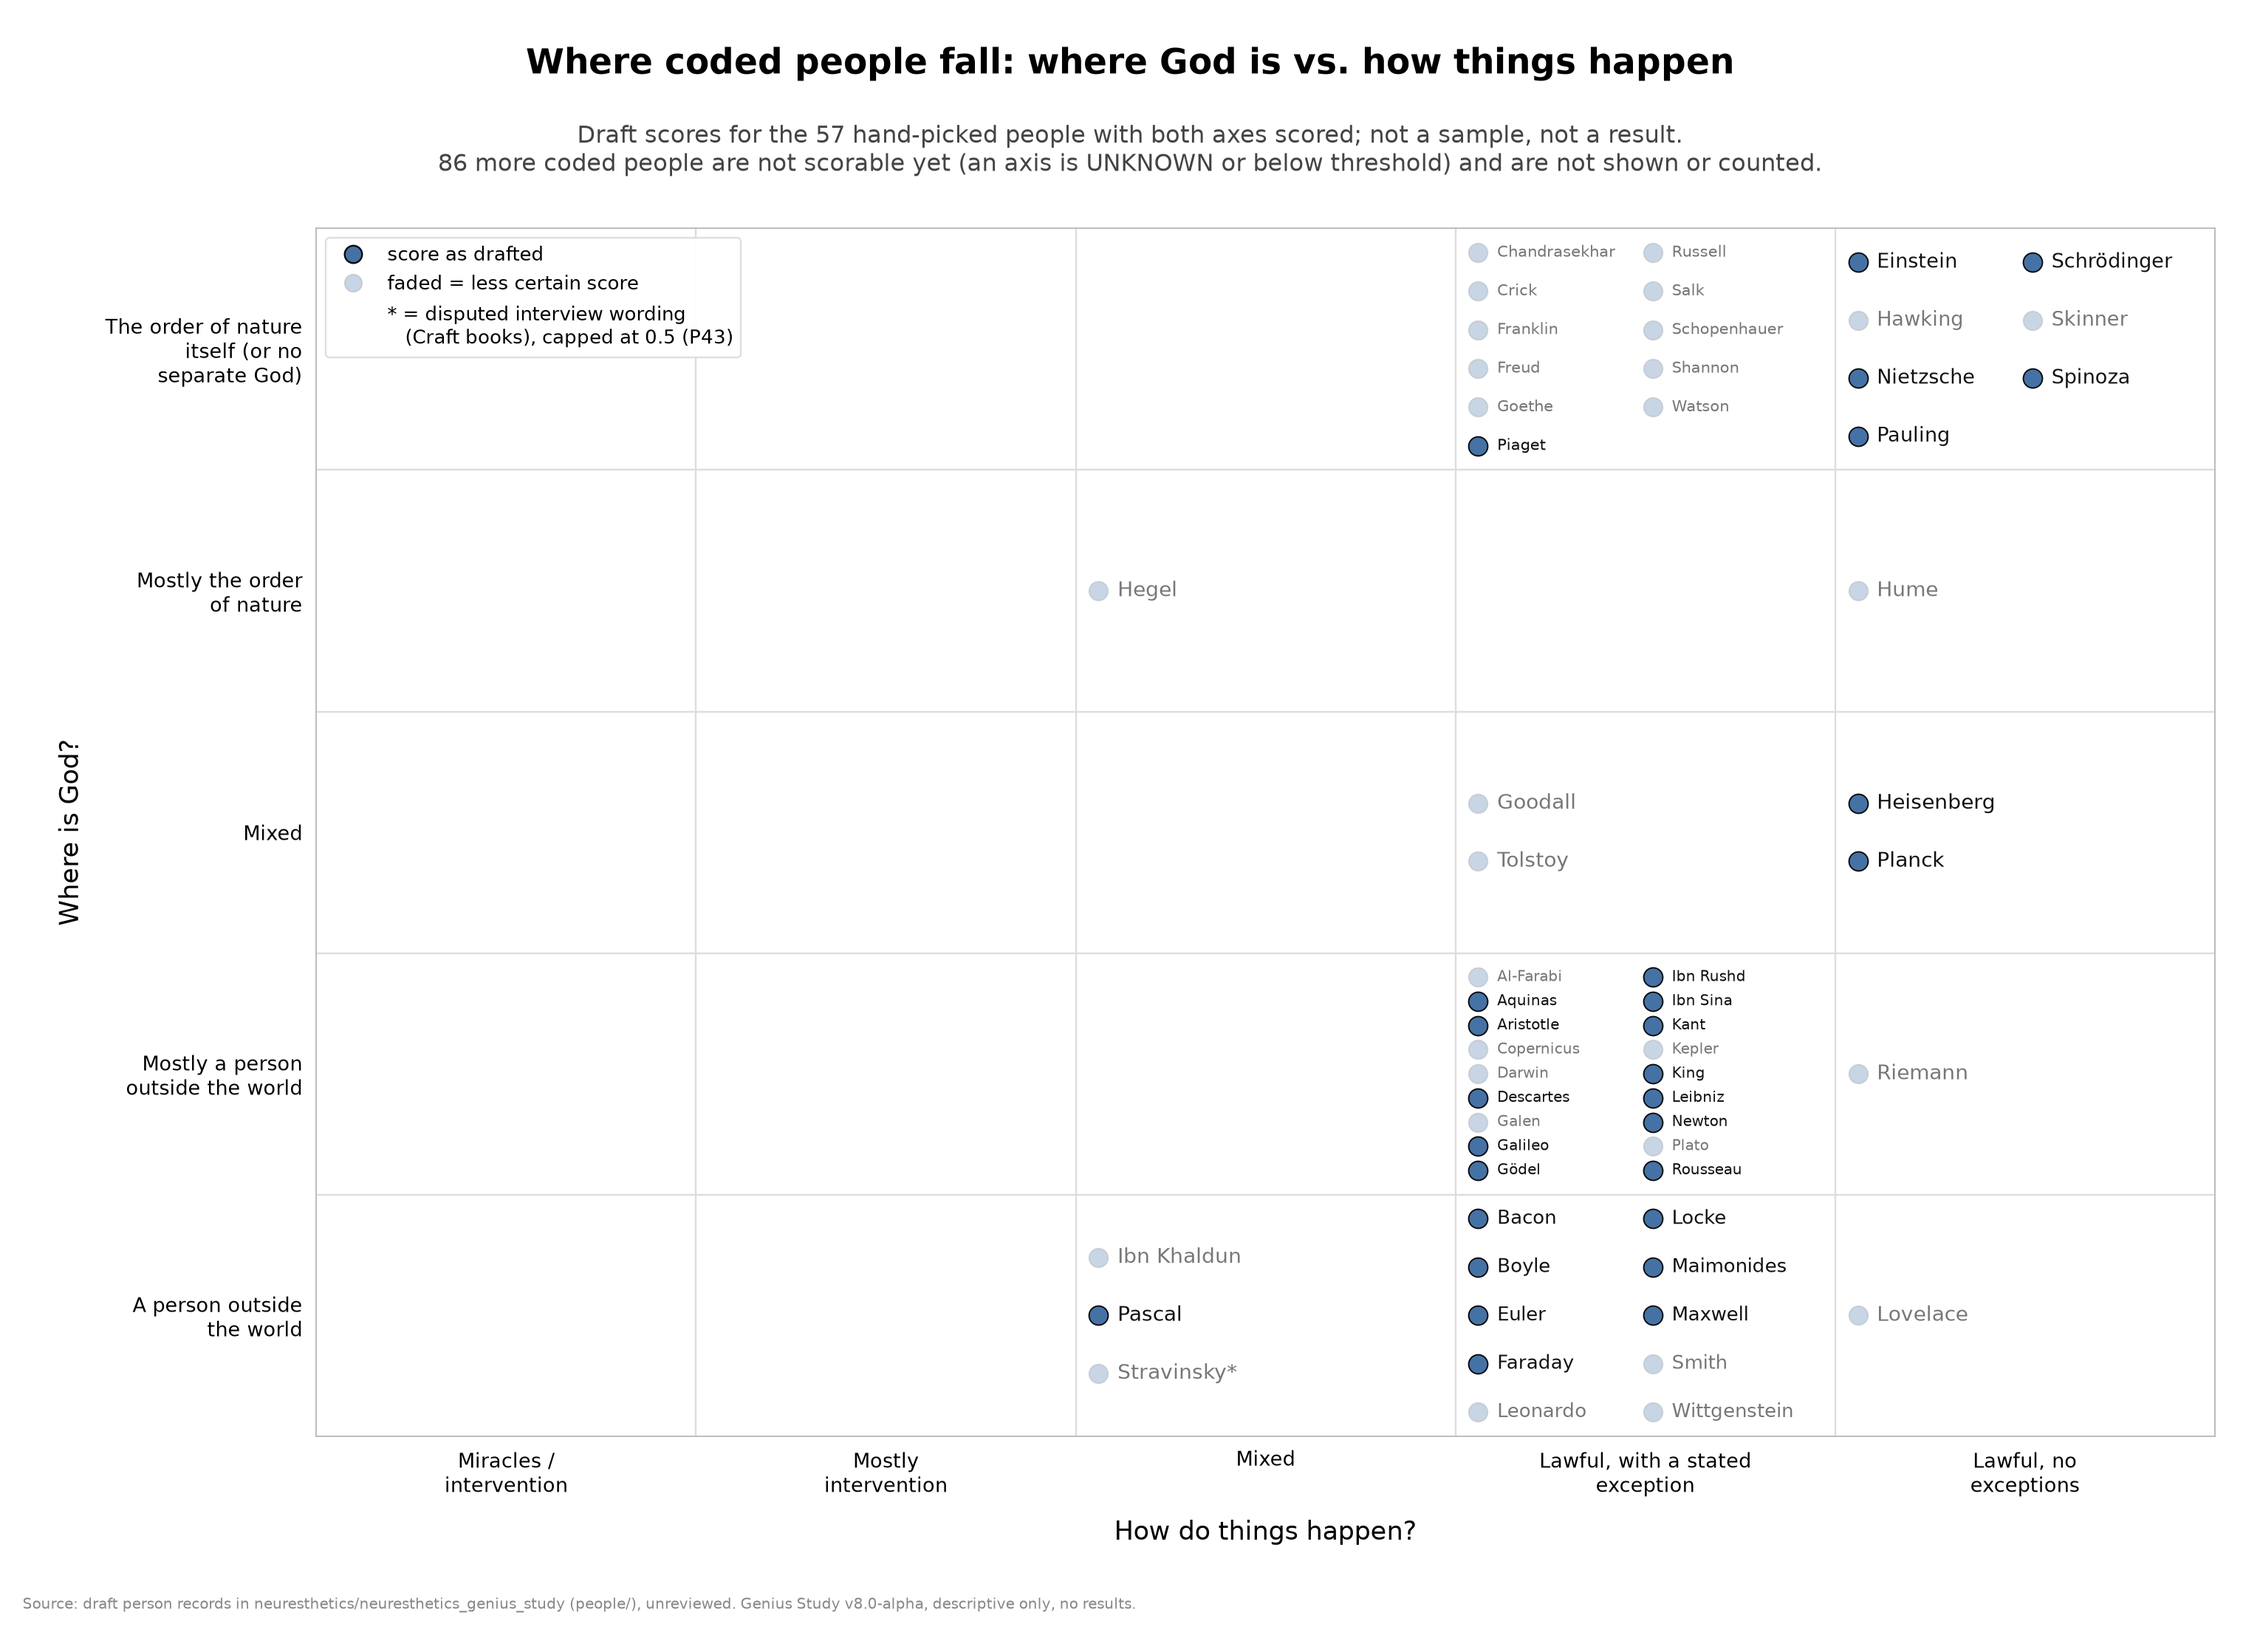
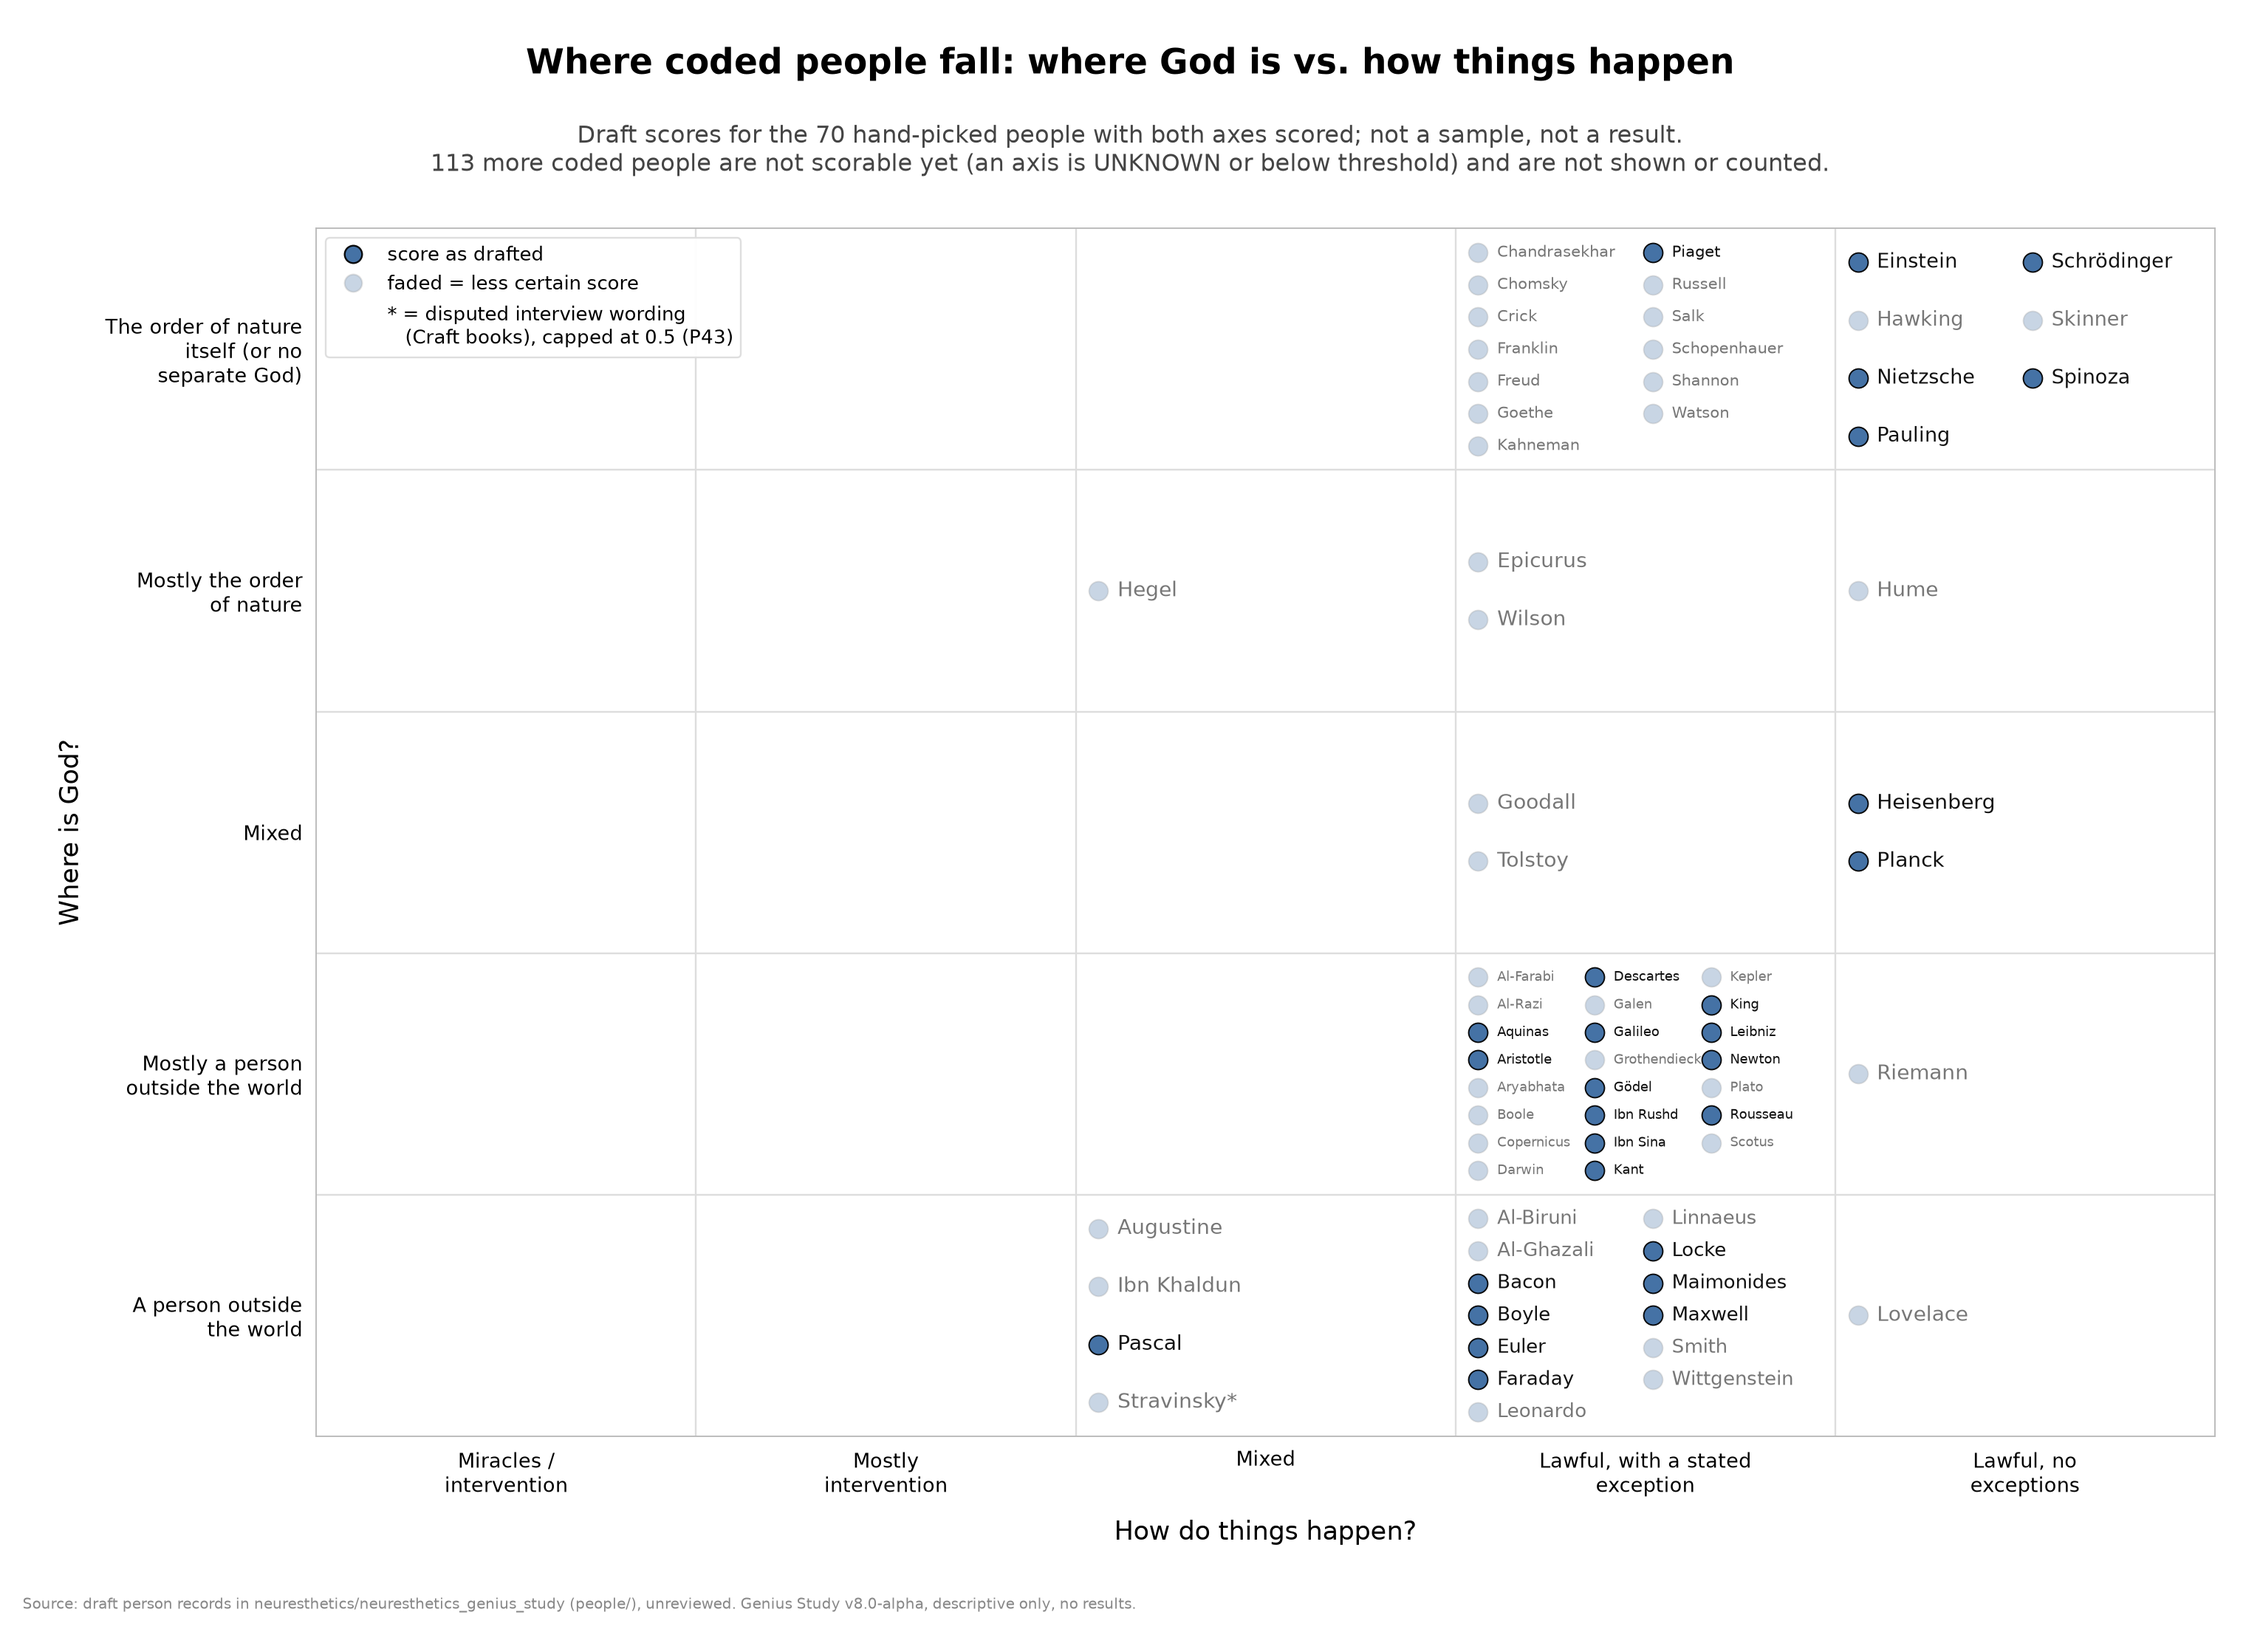
Chart refresh after the Z run: 70 plotted, 113 not scorable; Augustine label (display-name override, 'X of Y'); overlay cells refit, 0 overlaps; README counts

diff --git a/scripts/lib/records.py b/scripts/lib/records.py
@@ -237,7 +237,7 @@ def firm(p):
     return all(isinstance(c, (int, float)) and c >= CHART_CERT for c in (p["cA"], p["cB"]))
 
 
-SHORT_LABELS = {"Galileo Galilei": "Galileo", "Leonardo da Vinci": "Leonardo"}
+SHORT_LABELS = {"Galileo Galilei": "Galileo", "Leonardo da Vinci": "Leonardo", "Augustine of Hippo": "Augustine"}  # display-name overrides: people known by a common name
 _SUFFIXES = {"jr", "jr.", "sr", "sr.", "ii", "iii", "iv"}
 
 
@@ -247,6 +247,8 @@ def short_label(name):
     if name in SHORT_LABELS:
         return SHORT_LABELS[name]
     base = re.sub(r"\s*\([^)]*\)", "", name).strip()
+    if " of " in base:  # 'Augustine of Hippo', 'Hildegard of Bingen': the common name precedes the place
+        base = base.split(" of ")[0].strip()
     toks = base.replace(",", " ").split()
     while len(toks) > 1 and toks[-1].lower() in _SUFFIXES:
         toks.pop()

diff --git a/scripts/make_figures.py b/scripts/make_figures.py
@@ -443,8 +443,8 @@ def _draw_cells(ax, items):
     for (b, a), its in cells.items():
         syss = sorted([i for i in its if i["kind"] == "system"], key=lambda i: i["label"])
         ppl = sorted([i for i in its if i["kind"] != "system"], key=lambda i: i["label"])
-        ncols, fs = fit_cell([i["label"] for i in ppl], cell_w, cell_h, fs_max=10, fs_min=7,
-                             dot_gap=0.045, head=[i["label"] for i in syss], max_cols=3, line=1.4)
+        ncols, fs = fit_cell([i["label"] for i in ppl], cell_w, cell_h, fs_max=10, fs_min=5,
+                             dot_gap=0.045, head=[i["label"] for i in syss], max_cols=4, line=1.3)
         prow = math.ceil(len(ppl) / ncols) if ppl else 0
         nrows = len(syss) + prow
         rowh = min(0.2, 0.8 / max(nrows - 1, 1))

diff --git a/CHANGELOG.md b/CHANGELOG.md
@@ -602,6 +602,7 @@ Sourced drafts of the systems the first-pool people are most likely to be coded 
 
 - **2026-10-19, chart label fix and refresh** (Jason: 'fix them'). scripts/make_figures.py: each grid cell's columns and font size are now fitted from measured label widths (fit_cell), so no label runs into the next column or row (Chandrasekhar and Russell; the crowded 'mostly a person outside the world' cell); markers shrink with the font in crowded cells; the overlay figure is larger (22 x 15.5 in) and the people chart slightly larger (18 x 13 in); a check (report_overlaps) prints any overlapping label boxes when the figures are drawn (0 on all three grids). scripts/lib/records.py: short_label() drops parentheticals and suffixes ('Martin Luther King Jr.' -> King; 'Ibn Rushd (Averroes)' -> Ibn Rushd; two-word Ibn names keep both words, so Ibn Khaldun and Ibn Sina; Leonardo da Vinci -> Leonardo), used by both charts and the README caption. All figures regenerated after Jason's rulings: 57 plotted, 86 not scorable; King now solid (A 1, B 3), Kant moves to B 3. No data changes in this commit.
 
+- **2026-10-19, chart refresh after the Z run** (Z5–Z10). make_figures regenerated all charts at 70 plotted, 113 not scorable (183 records). Labels: people known by a common name get a display-name override (SHORT_LABELS) and names of the form 'X of Y' are labelled X, so 'Hippo' now reads Augustine. The overlay chart's crowded cells may use four columns and a smaller minimum font, so no labels overlap (overlap check: 0 on all three grid charts). README caption and counts regenerated.
 - **2026-10-19, Z10 audit fixes** (blind audit at f8cb138, run 1: 25 HOLD, 3 WEAKEN, 3 FAIL; v8's calls on the auditor's advice, logged in OPEN_DECISIONS). Mendel: dated by the 1865 public readings (P30 #1), span 1865, age 43. Marconi: patent No. 7777 not lasting on 'famous' alone (P13), span 1896; S2 note says the page was read. Lamarr: no supported lasting work (P13, P26), span UNKNOWN; the patent is dated by its 1941 filing (formal submission, P30 #1). Orwell: label 'unofficial web copy' (new verified_against value, schema and DATA_DICTIONARY updated). Wright: Fallingwater how_known corrected (dated by completion, 1937). No plotted point moves: 70 plotted, 113 not scorable.
 - **2026-10-19, stage 3 batch Z10** (draft, awaiting blind audit). Four records in roster order after rank 173: Gregor Mendel (174; CHRIST 0.5 scholarly_reconstruction from Richter 2015, alt BELOW_THRESHOLD; A UNKNOWN, lead 1 from an Easter sermon outline seen only as a secondary quotation (V3); scientist, B 3 @0.5 alt 4 from working science (P35); mid_basin UNKNOWN; span 1866 (publication of the 1865 paper), age 44), Grigori Perelman (175; all UNKNOWN; not a scientist; span 2002–2003, age 36), Guglielmo Marconi (176; CHRIST 0.5 alt BELOW_THRESHOLD and A 1 @0.5 alts 0 and BELOW_THRESHOLD, from his 1931 Vatican Radio address, 'With the help of Almighty God, who allows the many mysterious forces of nature to be used by man', after the span; B UNKNOWN, invention (P33); mid_basin BELOW_THRESHOLD; span 1896–1900, age 22), Hedy Lamarr (177; all UNKNOWN; invention (P33); span 1942 (patent grant), age 29, 28 if born 1914). None newly plotted: 70 plotted, 113 not scorable. Linnaeus RQ-Z5-N1 stays unapplied.
 - **2026-10-19, Z9 audit fixes** (blind audit at 8590213, run 1: 17 HOLD, 3 WEAKEN, 1 FAIL; v8's calls on the auditor's advice, logged in OPEN_DECISIONS). RQ-Z9-N1: a scholar's composition range in article text dates a manuscript-era work (P12 start); printing-era works still need a premiere or publication. Chaucer (FAIL, P26): 1387 re-sourced from the Top Questions box to the Britannica topic article 'The Canterbury Tales' (body), span 1387–1400 and age 45 stand; Retraction summary added as a lead. Hinton: RQ-Z9-1 no, B UNKNOWN, leads added. Boole: p. 424 is others' profession, so CHRIST 0.5 -> BELOW_THRESHOLD (leads CHRIST, DEISM); A 1 rests on p. 159; only the OCR read; RQ-Z9-2 no. Orwell: S2 labelled an unofficial web copy (0.7 cap), not a secondary quotation; As I Please (1944) C lead. No plotted point moves: 70 plotted, 109 not scorable.

diff --git a/README.md b/README.md
@@ -43,7 +43,7 @@ These charts describe what is in the repo so far; they are not results. The rost
 ![Draft person scores: where coded people fall on where God is against how things happen, with no region marked](figures/people_cause_locus.png)
 
 <!-- BEGIN GENERATED: people_chart_caption -->
-*Draft person scores: where God is (up the chart) against how things happen (across the chart). No region is marked. Plotted: the 70 coded people with both axes scored; every plotted person is B_cause 2, 3 or 4. Nobody plotted scores in the left two columns (miracles or intervention, or mostly intervention). **Interview voice (P43):** Igor Stravinsky (A 0, B 2) rests on interview statements of disputed wording (for Stravinsky, the Craft books), capped at 0.5 and drawn faded; 5 plotted people score left of B 3 (Hippo, Hegel, Ibn Khaldun, Pascal, Stravinsky). **Not scorable yet:** 113 coded people lack a score on at least one axis (31 with no A_locus score, 19 with no B_cause score, 63 with neither; the value is UNKNOWN or BELOW_THRESHOLD). They are not plotted and are left out of every count here. These are unreviewed, hand-picked drafts, not a sample, and there is no base rate for any era, so the chart shows only where these people fall, not a pattern or a rate. Each surname sits next to its dot. A faded dot is a less certain score (below 0.7 on at least one axis).*
+*Draft person scores: where God is (up the chart) against how things happen (across the chart). No region is marked. Plotted: the 70 coded people with both axes scored; every plotted person is B_cause 2, 3 or 4. Nobody plotted scores in the left two columns (miracles or intervention, or mostly intervention). **Interview voice (P43):** Igor Stravinsky (A 0, B 2) rests on interview statements of disputed wording (for Stravinsky, the Craft books), capped at 0.5 and drawn faded; 5 plotted people score left of B 3 (Augustine, Hegel, Ibn Khaldun, Pascal, Stravinsky). **Not scorable yet:** 113 coded people lack a score on at least one axis (31 with no A_locus score, 19 with no B_cause score, 63 with neither; the value is UNKNOWN or BELOW_THRESHOLD). They are not plotted and are left out of every count here. These are unreviewed, hand-picked drafts, not a sample, and there is no base rate for any era, so the chart shows only where these people fall, not a pattern or a rate. Each surname sits next to its dot. A faded dot is a less certain score (below 0.7 on at least one axis).*
 <!-- END GENERATED: people_chart_caption -->
 
 ![Draft belief-system scores on where God is against how things happen, with margin strips for systems where an axis is not settled](figures/systems_cause_locus.png)
